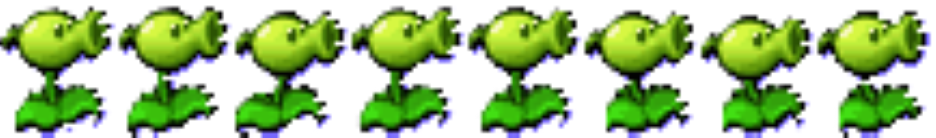
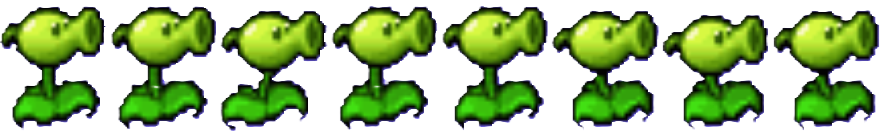
Update PeaShooter

diff --git a/PeaShooter.cpp b/PeaShooter.cpp
@@ -7,7 +7,7 @@ PeaShooter::PeaShooter(int x, int y, int health) :ShootingPlants (x,y,health)
 {
 	texture.loadFromFile("./Images/Peashooter.png");
 	sprite.setTexture(texture);
-	sprite.setTextureRect(IntRect(offset * 115, 0, 115, 135));
+	sprite.setTextureRect(IntRect(offset * 111, 0, 111, 135));
 	sprite.setPosition(Pos.x, Pos.y);
 }
 void PeaShooter::UpdateAnimation(float deltaTime) {
@@ -20,5 +20,5 @@ void PeaShooter::UpdateAnimation(float deltaTime) {
 		if (offset == 8)
 			offset = 0;
 	}
-	sprite.setTextureRect(IntRect(offset * 115, 0, 115, 135));
+	sprite.setTextureRect(IntRect(offset * 111, 0, 111, 135));
 }
